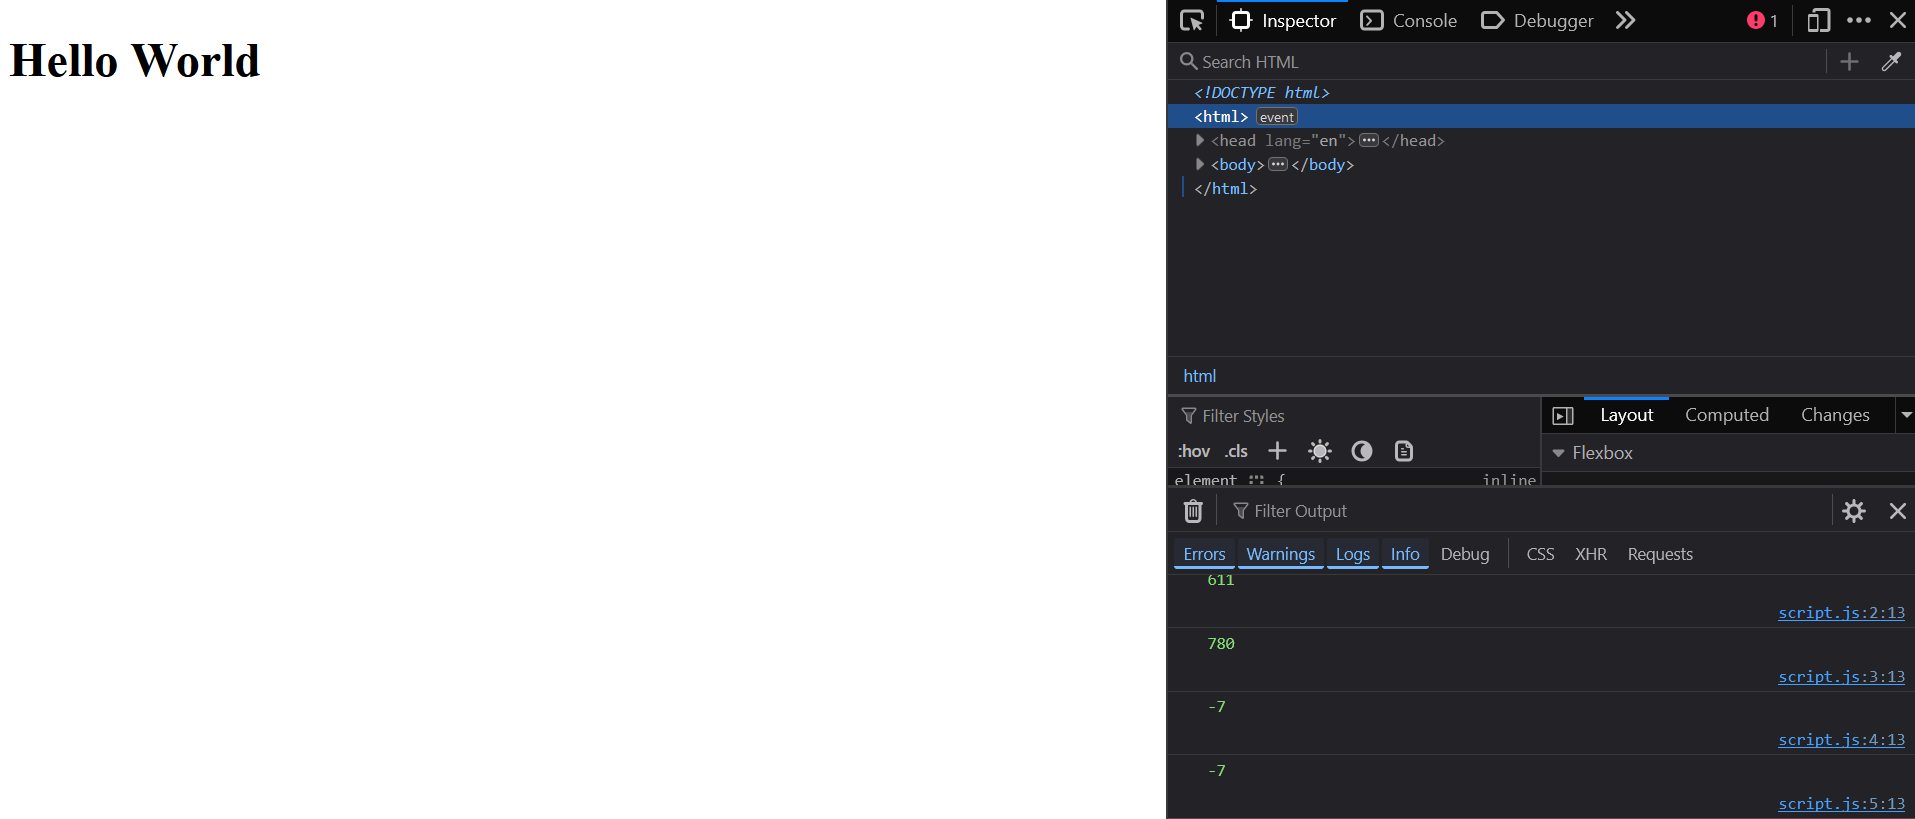
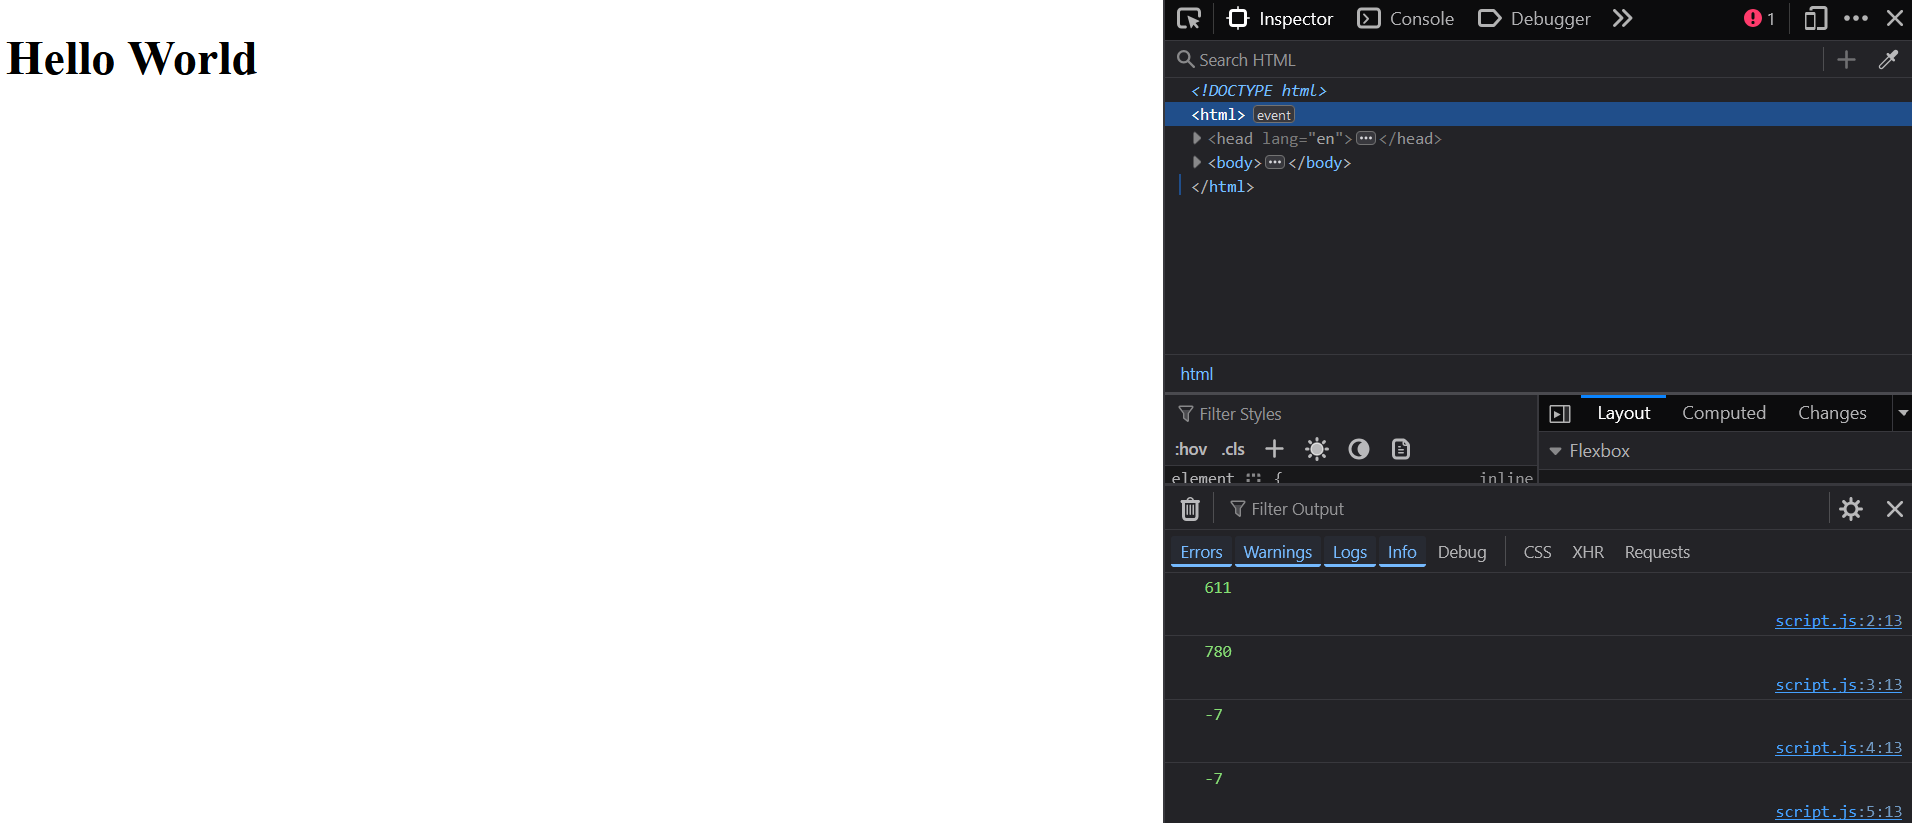
UD Part_1

diff --git a/README.md b/README.md
@@ -34,11 +34,11 @@ There is a whole range of properties for determining the size and position of a 
 
 Example:
    
- [Complete code - Part_1 - click here](https://github.com/BellaMrx/Forms_in_JavaScript/tree/main/Forms/Part_1)
+ [Complete code - Part_1 - click here](https://github.com/BellaMrx/BOM_Browser-Object-Model/tree/main/BOM/Part_1)
 
   ```
     console.log(window.innerHeight);        // 611
-    console.log(window.innerWidth);         // 700
+    console.log(window.innerWidth);         // 780
     console.log(window.screenX);            // -7
     console.log(window.screenY);            // -7
   ```
